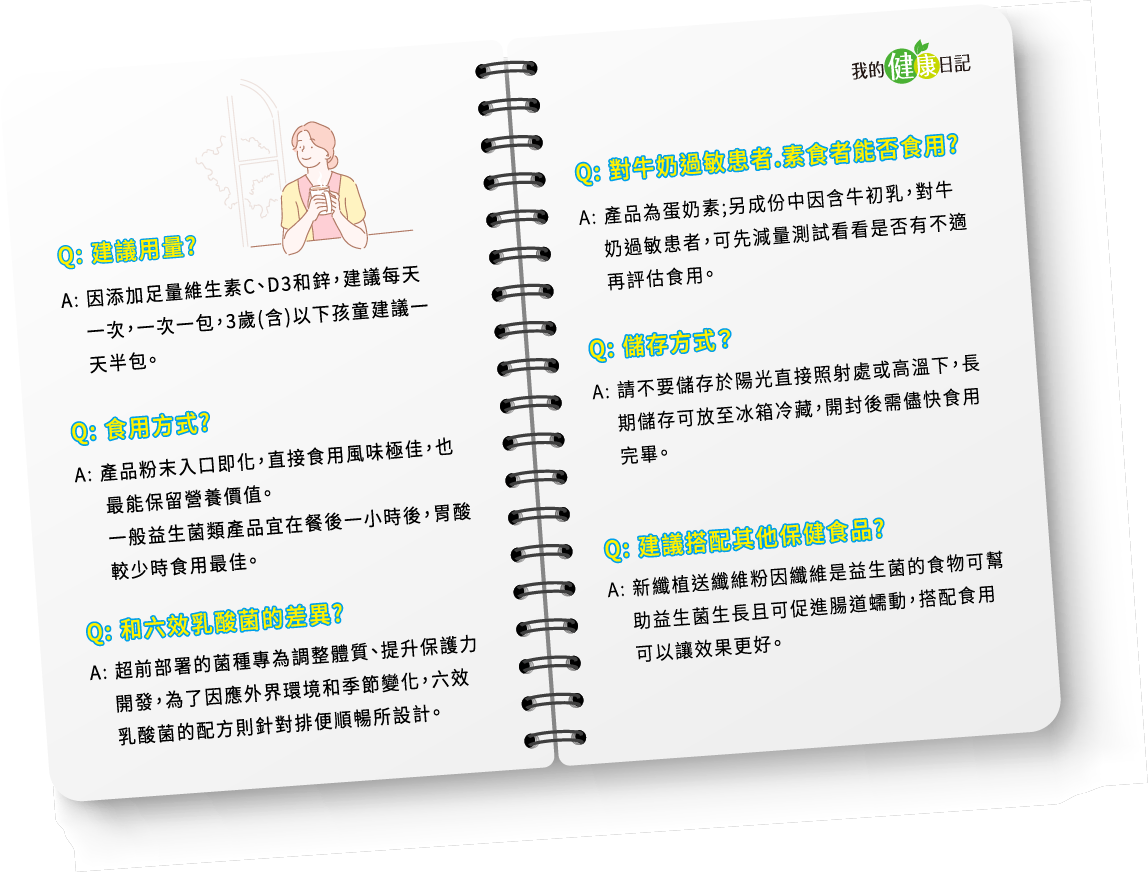
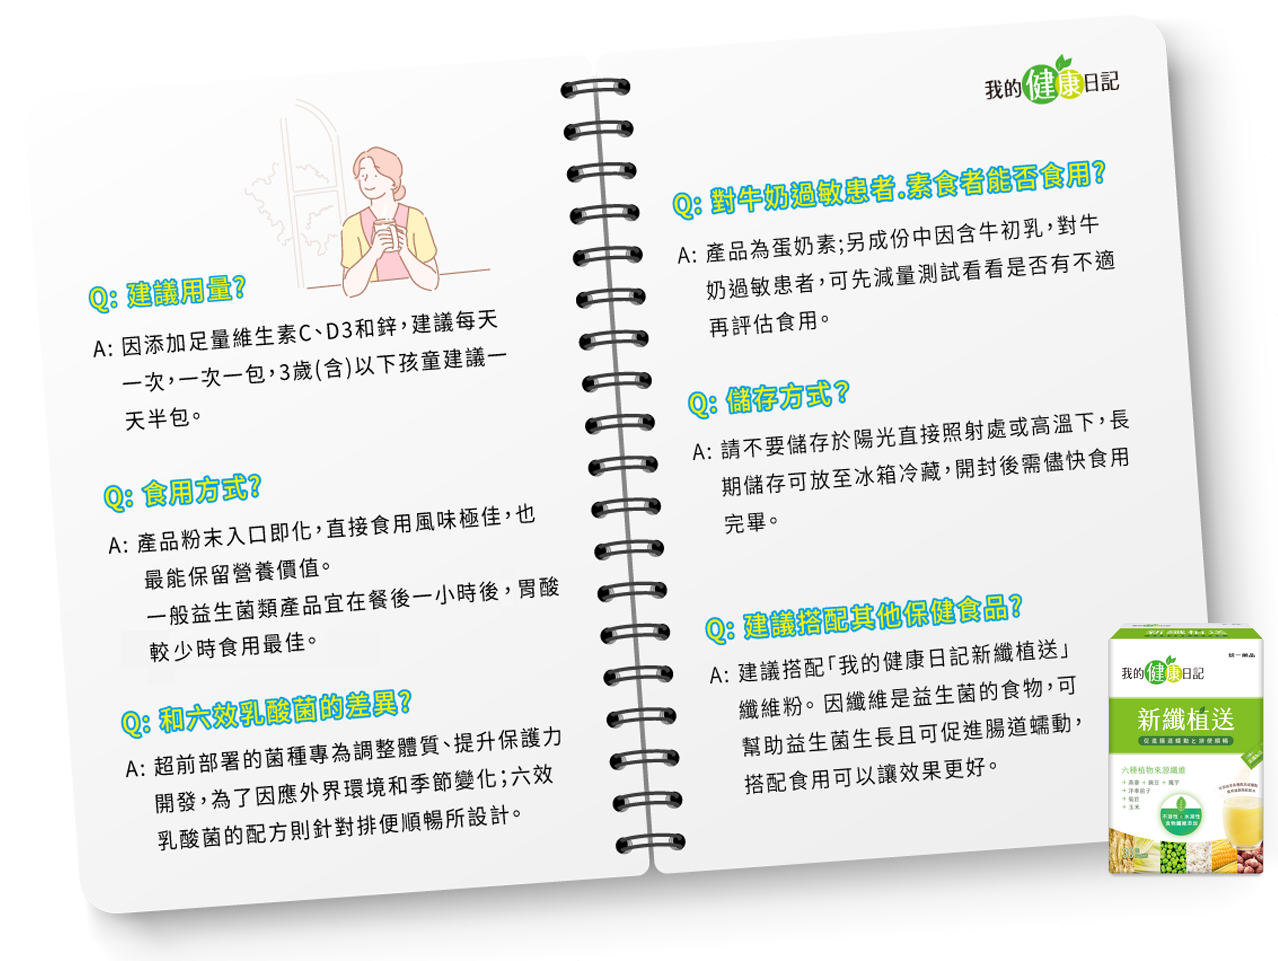
dsda

Changed region(s): [[0.0305, 0.031, 1.0, 0.9908]]

diff --git a/index.html b/index.html
@@ -113,6 +113,66 @@
           </div>
         </div>
       </div>
+      <div class="q_a">
+        <div class="subtitle"><img src="images/title03.png" alt=""></div>
+        <div class="qa_book">
+          <img src="images/qa_book.png" alt="">
+        </div>
+      </div>
+      <div class="sales">
+        <div class="subtitle"><img src="images/title04.png" alt=""></div>
+        <div class="sales_img">
+          <img src="images/buy.png" alt="">
+        </div>
+        <div class="sales_content">
+          <div class="sales_title">實體通路</div>
+          <div class="sales_logo_ctn">
+            <div class="sales_logo sales01"><a href="#"><img src="images/7-11.png" alt=""></a></div>
+            <div class="sales_logo sales02 sales_mt"><a href="#"><img src="images/cosmed_footer.png" alt=""></a></div>
+            <div class="sales_logo sales03 sales_mt"><a href="#"><img src="images/watsons_footer.png" alt=""></a></div>
+            <div class="sales_logo sales03"><a href="#"><img src="images/carrefour.png" alt=""></a></div>
+            <div class="sales_logo sales03"><a href="#"><img src="images/biotech.png" alt=""></a></div>
+            <div class="sales_logo sales03 sales_mt"><a href="#"><img src="images/greet_tree.png" alt=""></a></div>
+          </div>
+        </div>
+        <div class="sales_content">
+          <div class="sales_title">網路商城</div>
+          <div class="sales_logo_ctn">
+            <div class="sales_logo sales02"><a href="#"><img src="images/momo_footer.png" alt=""></a></div>
+            <div class="sales_logo sales01"><a href="#"><img src="images/books.png" alt=""></a></div>
+            <div class="sales_logo sales03 sales_mt2"><a href="#"><img src="images/yahoo.png" alt=""></a></div>
+            <div class="sales_logo sales03 sales_mt2"><a href="#"><img src="images/pchome.png" alt=""></a></div>
+          </div>
+        </div>
+        <div class="sales_content">
+          <div class="sales_title">醫療通路</div>
+          <div class="sales_hospital">
+            北市 安東診所 / 北市 新長安診所 / 北市 林應然小兒科診所 / 北市	仁耀診所 / 北市 林建輝小兒科診所 / 北市 屈銘軒小兒科診所
+            北市 同泰聯合診所 / 北市 親子診所 / 北市 晏安診所 / 北市 鄭醫師診所 / 北市 蕭雨青小兒科診所 / 北市 維仁診所 / 北市 弘育診所
+            北市 陳獻明小兒科診所 / 北市 昱德聯合診所 / 北市 華南小兒科診所 / 北市 車參薇小兒科診所 / 北市 佳祐內兒科診所 
+            北市 松山內兒科診所 / 北市 新東平診所 / 北市 益生家醫科診所 / 北市 許孟權小兒科診所 / 北市 劉義仁診所
+            <br><br>
+            新北市 尚安診所 / 新北市 家和診所 / 新北市 通安診所 / 新北市 宜生診所 / 新北市 奇安診所 / 新北市 雙怡診所 / 新北市 益德診所
+            新北市 佳和診所 / 新北市 彭程毅診所 / 新北市 唐小兒科診所 / 新北市 柯景馨診所 / 新北市 友友小兒科診所 / 新北市 愛鄰診所
+            新北市 銘亮診所 / 新北市 信德診所 / 新北市 林子敬診所 / 新北市 常春聯合診所 / 新北市 薛松茂內兒科診所
+            新北市 褚內兒科林皮膚科診所 / 新北市 林弘揚耳鼻喉科健康家庭醫學科聯合診所 / 新北市 陳嘉偉診所 / 新北市 麗暘診所
+            新北市 中正診所 / 新北市 全泰診所 / 新北市 柏宏聯合診所 / 新北市 至祥診所  / 新北市 德恩診所 / 新北市 李振興診所
+            新北市 碧潭診所 / 新北市 健全診所 / 新北市 信安診所 / 新北市 泰康診所 / 新北市 祐聖小兒科聯合診所
+            <br><br>
+            中市 謝佳璋聯合診所 / 中市 賴文鐘診所 / 中市 呂錦泉聯合診所 / 中市 羅倫檭診所 / 中市 伸安診所   / 中市 陳長庚診所
+            中市 復興家庭醫學科診所 / 中市 李昭德診所 / 中市 翔新診所 / 中市 人人診所 / 中市 郭品君小兒專科內科診所
+            中市 張適欽診所 / 中市 賴東昇小兒科診所 / 中市 康康小兒專科診所 / 中市 蘇游耳鼻喉科小兒聯合診所 / 中市 林育民診所
+            中市 吳明峰診所 / 中市 理想家小兒科診所 / 中市 林玉彪診所 / 中市 林政益小兒科診所 / 中市 賴永清小兒科診所
+            <br><br>
+            南市 吳國堯小兒科診所 / 南市 周明山診所 / 南市 喜樂小兒科診所 / 南市 蕭超然診所
+            <br><br>
+            高市 協美診所 / 高市 謝麗煌小兒科內科診所 / 高市 吳信宏小兒科耳鼻喉科診所 / 高市 昭哲診所 / 高市 真善美診所
+            高市 董金山診所 / 高市 正中診所 / 高市 長庚茂田診所 / 高市 增田聯合診所 / 高市 邱靖媛小兒專科診所 / 高市 嘉醫診所
+            高市 金仁福診所 / 高市 協民診所 / 高市 錦明小兒科診所 / 高市 何鴻鈞診所 / 高市 黃子育診所 / 高市 安生診所
+            高市 王宏育診所 / 高市 蔣榮福診所
+          </div>
+        </div>
+      </div>
       <div class="rightBtn_group">
         <div class="img_buyNow">
           <div class="buyNow_img">
@@ -136,6 +196,11 @@
         </a>
       </div>
       <a href="##" class="btn-top"><img src="images/btn-top.png" alt=""></a>
+    </div>
+    <div class="footer">
+      因個人體質不同，對產品感受會有所差異<br>
+      統一藥品股份有限公司PRESIDENT PHARMACEUTICAL CORP. 地址 : 105台北市松山區南京東路四段126號6樓<br>
+      產品諮詢專線 : 0800-000-070(09:00-18:00週一到週日) Copyright © 2021 ppc, Inc. All Rights Reserved.
     </div>
   </div>
   <script>

diff --git a/css/style.css b/css/style.css
@@ -203,12 +203,14 @@ body{
     float: left;
     cursor: pointer;
     position: relative;
+    transition: all .7s;
 }
 .witness_content .win_right{
     width: 70%;
     float: right;
     cursor: pointer;
     position: relative;
+    transition: all .7s;
 }
 .witness_content .win_left.mt01{
     margin-top: -10px;
@@ -233,10 +235,12 @@ body{
     position: relative;
     /* display: flex;
     justify-content: space-between; */
+    transition: all .7s;
 }
 .witness_content .blog_item01{
     width: 25%;
     position: absolute;
+    transition: all .7s;
 }
 .witness_content .blog_item01 img{
     width: 100%;
@@ -325,6 +329,99 @@ body{
 .blog_item01:hover ,.win_left:hover, .win_right:hover{
     transform: scale3d(1.1, 1.1, 1);
 }
+.q_a{
+    width: 100%;
+}
+.q_a .subtitle{
+    width: 20%;
+    margin: 0 auto;
+}
+.q_a .qa_book{
+    width: 100%;
+    margin: 0 auto;
+}
+.q_a .qa_book img{
+    width: 100%;
+    height: auto;
+}
+.sales .subtitle{
+    width: 20%;
+    margin: 0 auto;
+}
+.sales_img{
+    width: 50%;
+    margin: 0 auto;
+}
+.sales_img img{
+    width: 100%;
+    height: auto;
+    margin: 0 auto;
+}
+.sales .sales_content{
+    width: 100%;
+    border-radius: 15px;
+    background-color: #ecfaff;
+    padding: 20px 80px;
+    margin-top: 50px;
+    box-shadow: 0 0 30px #ecfaff;
+    margin-bottom: 90px;
+}
+.sales .sales_content .sales_title{
+    width: 100%;
+    text-align: center;
+    font-size: 40px;
+    font-weight: bolder;
+    letter-spacing: 5px;
+    color: #3e3a39;
+    margin-top: -55px;
+}
+.sales .sales_content .sales_logo_ctn{
+    width: 100%;
+    margin: 0 auto;
+    display: flex;
+    flex-wrap: wrap;
+    margin-top: 20px;
+}
+.sales_logo_ctn .sales_logo {
+    margin-left: 15px;
+    margin-right: 15px;
+    margin-top: 20px;
+    position: relative;
+}
+.sales_logo_ctn .sales_logo.sales01{
+    width: 9%;
+}
+.sales_logo_ctn .sales_logo.sales02{
+    width: 33%;
+}
+.sales_logo_ctn .sales_logo.sales03{
+    width: 23%;
+}
+.sales_logo_ctn .sales_logo img{
+    width: 100%;
+    height: auto;
+}
+.sales_logo.sales_mt{
+    top: 20px;
+}
+.sales_logo.sales_mt2{
+    top: 10px;
+}
+.sales_content .sales_hospital{
+    width: 100%;
+    font-size: 16px;
+    color: #3e3a39;
+    margin: 30px 0;
+}
+.footer{
+    width: 100%;
+    background-color: #ecfaff;
+    text-align: center;
+    padding: 25px;
+    line-height: 30px;
+    color: #3e3a39;
+    position: relative;
+}
 .btn-top{
     position: fixed;
     width: 50px;
@@ -340,7 +437,7 @@ body{
     position: fixed;
     width: 65px;
     height: 500px;
-    top: 33%;
+    top: 20%;
     right: 0;
     z-index: 19;
 }
